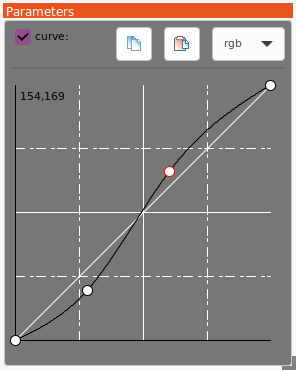
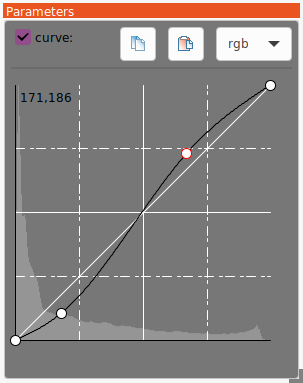
doc update

diff --git a/doc/tone.html b/doc/tone.html
@@ -30,16 +30,21 @@ y = pow((x(Ax+B))/(x(Ax+C))+D,Power)
 
 Usage notes:
 <ul>
-	<li>The Power coefficient is really a gamma, used in Hable's blog post to compare filmic to Reinhard.  
+	<li>The Power coefficient is really an inverse gamma, used in Hable's blog post to compare filmic to Reinhard.  
 	Setting it to 1.0 nulls its effect.</li>
 	<li>A affects the middle part of the curve.</li>
 	<li>B affects the toe of the curve, flattening it as the value is reduced.</li>
 	<li>C affects the shoulder of the curve.</li>
-	<li>D inversely affects the middle part of the curve.</li>
+	<li>D inversely affects the toe of the curve.</li>
 </ul>
 </li>
 </ul>
 </p>
+
+<p>The numbers in the various parameter boxes can be changed with the mouse thumbwheel, incremented/decremented with each 
+notch.  For float parameters, holding the Ctrl key while rolling the thumbwheel changes the third digit from the right; 
+holding the Shift key changes the second digit from the right; rolling the thumbwheel with no key pressed changes the 
+rightmost digit.</p>
 
 <p>
 The curve plot at the bottom of the tool pane graphically depicts the chosen tone curve.  The curve is computed using the 

diff --git a/doc/colorspace.html b/doc/colorspace.html
@@ -41,9 +41,6 @@ in the following directories in this order: 1) the pathname specified in tool.co
 directory containing the rawproc executable, 3) the OS-specific application configuration path (same place as rawproc.conf).
 If the image metadata contains a camera make/model, it will be displayed in the tool pane. </p?
 
-<p>If one needs to determine if and/or where
-the dcraw.c and camconst.json files are found, clicking the 'list' button in the tool pane will produce such a report dialog.</p>
-
 <p>If a set of primaries are found, they will be displayed at the bottom of the tool pane.</p>
 
 </li>

diff --git a/doc/curve.html b/doc/curve.html
@@ -29,6 +29,9 @@ saturation that is lost using individual lookups on each channel with
 
 <p align=center><img src=curve.png></p>
 
+<p>The curve pane displays the tone histogram of the <b>input</b> image.  Use the histogram pane to regard the 
+effect of the curve.</p>
+
 <p>Note that you can move the endpoints on the top and bottom lines to adjust the black and white point, so
 you could do that without resorting to the black/white point tool.</p>
 
